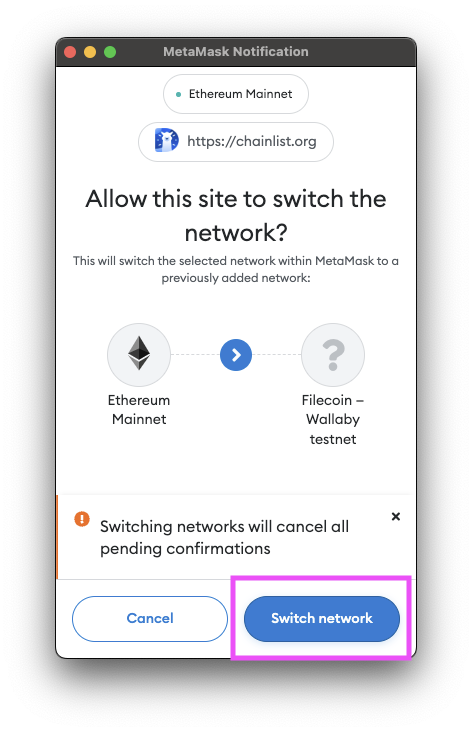
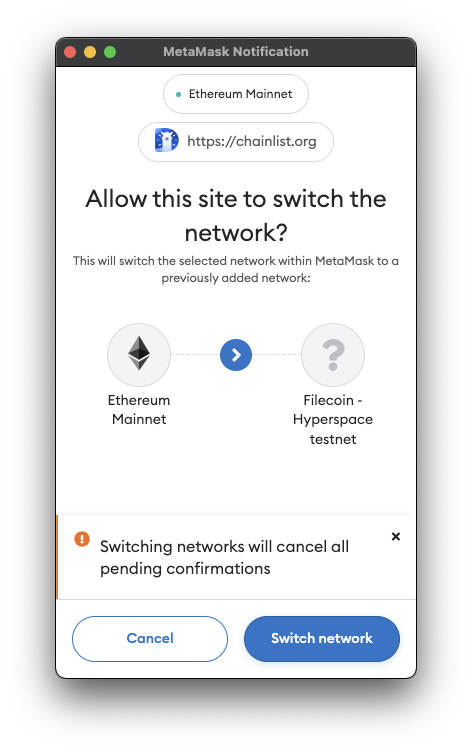
Cleans up screenshots.

diff --git a/content/en/developers/smart-contracts/how-tos/add-to-metamask/index.md b/content/en/developers/smart-contracts/how-tos/add-to-metamask/index.md
@@ -23,17 +23,36 @@ The easiest way to add a Filecoin testnet to your MetaMask is by using the pre-c
 
 1. Go to [chainlist.org](https://chainlist.org/).
 1. Enable the **Testnets** toggle and enter `Filecoin` into the search bar.
-1. Scroll down to find the **Filecoin - Hyperspace testnet**, then click **Connect Wallet**:
 
-    ![Search for and select the Hpyerspace Tesnet.](chainlist-select-testnet.png)
+    ![Search for Filecoin testnets in Chainlist.](chainlist-search-for-filecoin-testnets.png)
 
-1. In MetaMask click **Next**, then **Connect**, then **Approve** when prompted to connect Chainlist.org to MetaMask:
+1. Scroll down to find the **Filecoin -- Hyperspace** testnet:
 
-    ![Follow prompt from MetaMask to approce the connection to the Hyperspace testnet.](connect-with-metamask-approve.png)
+    ![Find the Hyperspace testnet.](chainlist-select-hyperspace.png)
 
-2. You should now see that MetaMask is connected to the **Filecoin - Hyperspace testnet**:
+1. In MetaMask click **Next**.
 
-    ![MetaMask connected to the Hyperspace testnet.](metamask-connected-to-hyperspace.png)
+    ![Click next in MetaMask.](chainlist-connect-with-metamask.png)
+
+1. Click **Connect**:
+
+    ![Click connect in MetaMask.](chainlist-click-connect-in-metamask.png)
+
+1. Click **Approve** when prompted to _Allow this site to add a network_:
+
+    ![Approve the new network in MetaMask](chainlist-approve-new-network.png)
+
+1. Click **Switch network** when prompted by MetaMask:
+
+    ![Switch networks in MetaMask.](chainlist-switch-network.png)
+
+1. Open MetaMask from the browser extensions tab:
+
+    ![Open MetaMask from the browser extensions tab.](chainlist-open-metamask.png)
+
+1. You should see the Filecoin Hyperspace testnet listed at the top:
+
+    ![MetaMask on the Filecoin Hyperspace testnet.](chainlist-hyperspace-added.png)
 
 ## Manual process
 
@@ -51,23 +70,13 @@ Before we get started, you'll need the following:
 The process for integrating Filecoin into MetaMask is fairly simple but has some very specific variables that you must copy exactly.
 
 1. Open your browser and open the MetaMask plugin. If you haven't opened the MetaMask plugin before, you'll be prompted to create a new wallet. Follow the prompts to create a wallet.
-1. If you haven't already, change your view to **Expanded view**.
-
-    ![Expanding the MetaMask plugin to be a whole page.](metamask-expanded-view.png)
-
 2. Click the user circle and select **Settings**:
 
-    ![Getting to the settings menu in MetaMask.](metamask-user-settings.png)
+    ![Click Settings from within MetaMask](manual-show-settings.jpg)
 
 3. Select **Networks**.
 4. Click **Add a network**.
-
-    ![MetaMask network settings to add a network manually.](metamask-network-settings.png)
-
 5. Scroll down and click **Add a network manually**.
-
-    ![Selecting the "Add a network manually" option.](selecting-add-a-network-manually.png)
-
 6. Enter the following information into the fields:
 
     | Field | Value |
@@ -83,13 +92,7 @@ The process for integrating Filecoin into MetaMask is fairly simple but has some
     - Filscan: `https://hyperspace.filscan.io/`
 
 8. Review the values in the fields and click **Save**.
-
-    ![Adding in the required values and saving.](fill-in-the-fields-and-save.png)
-
 9.  The Hyperspace testnet should now be shown in your MetaMask window.
-
-    ![MetaMask connected to the Hyperspace testnet.](metamask-connected-to-hyperspace.png)
-
 10. Done!
 
 ## Next steps
